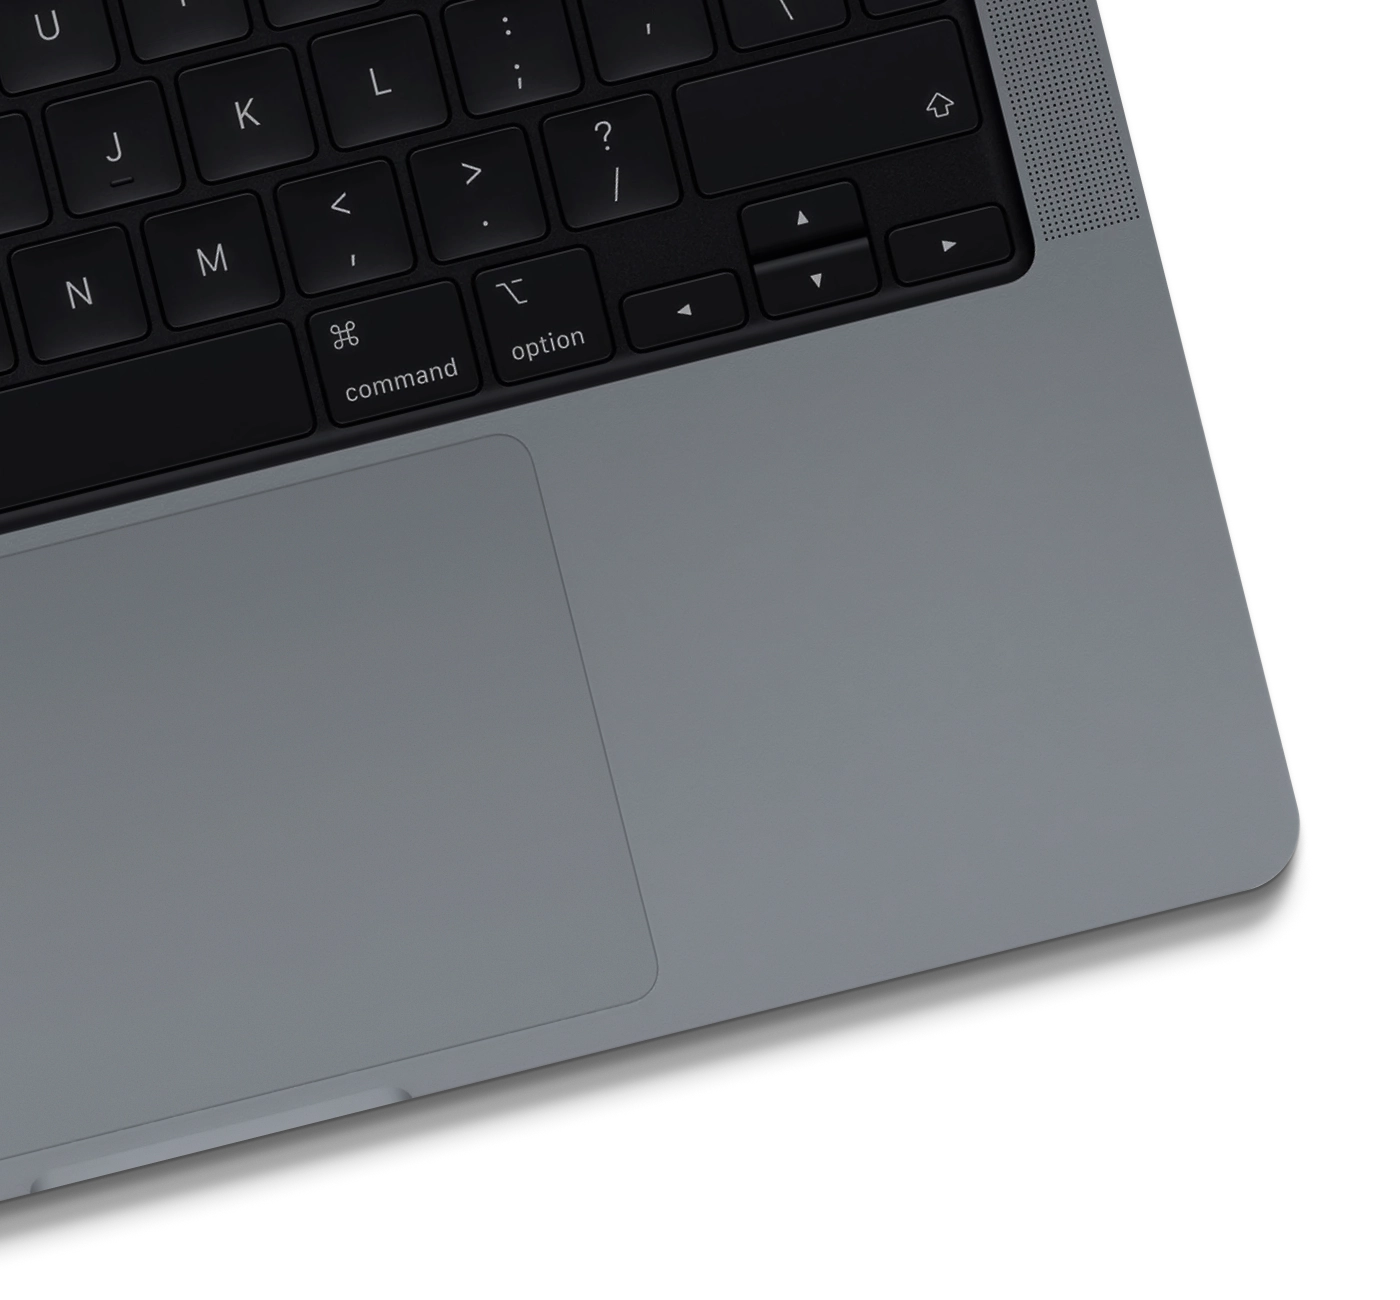
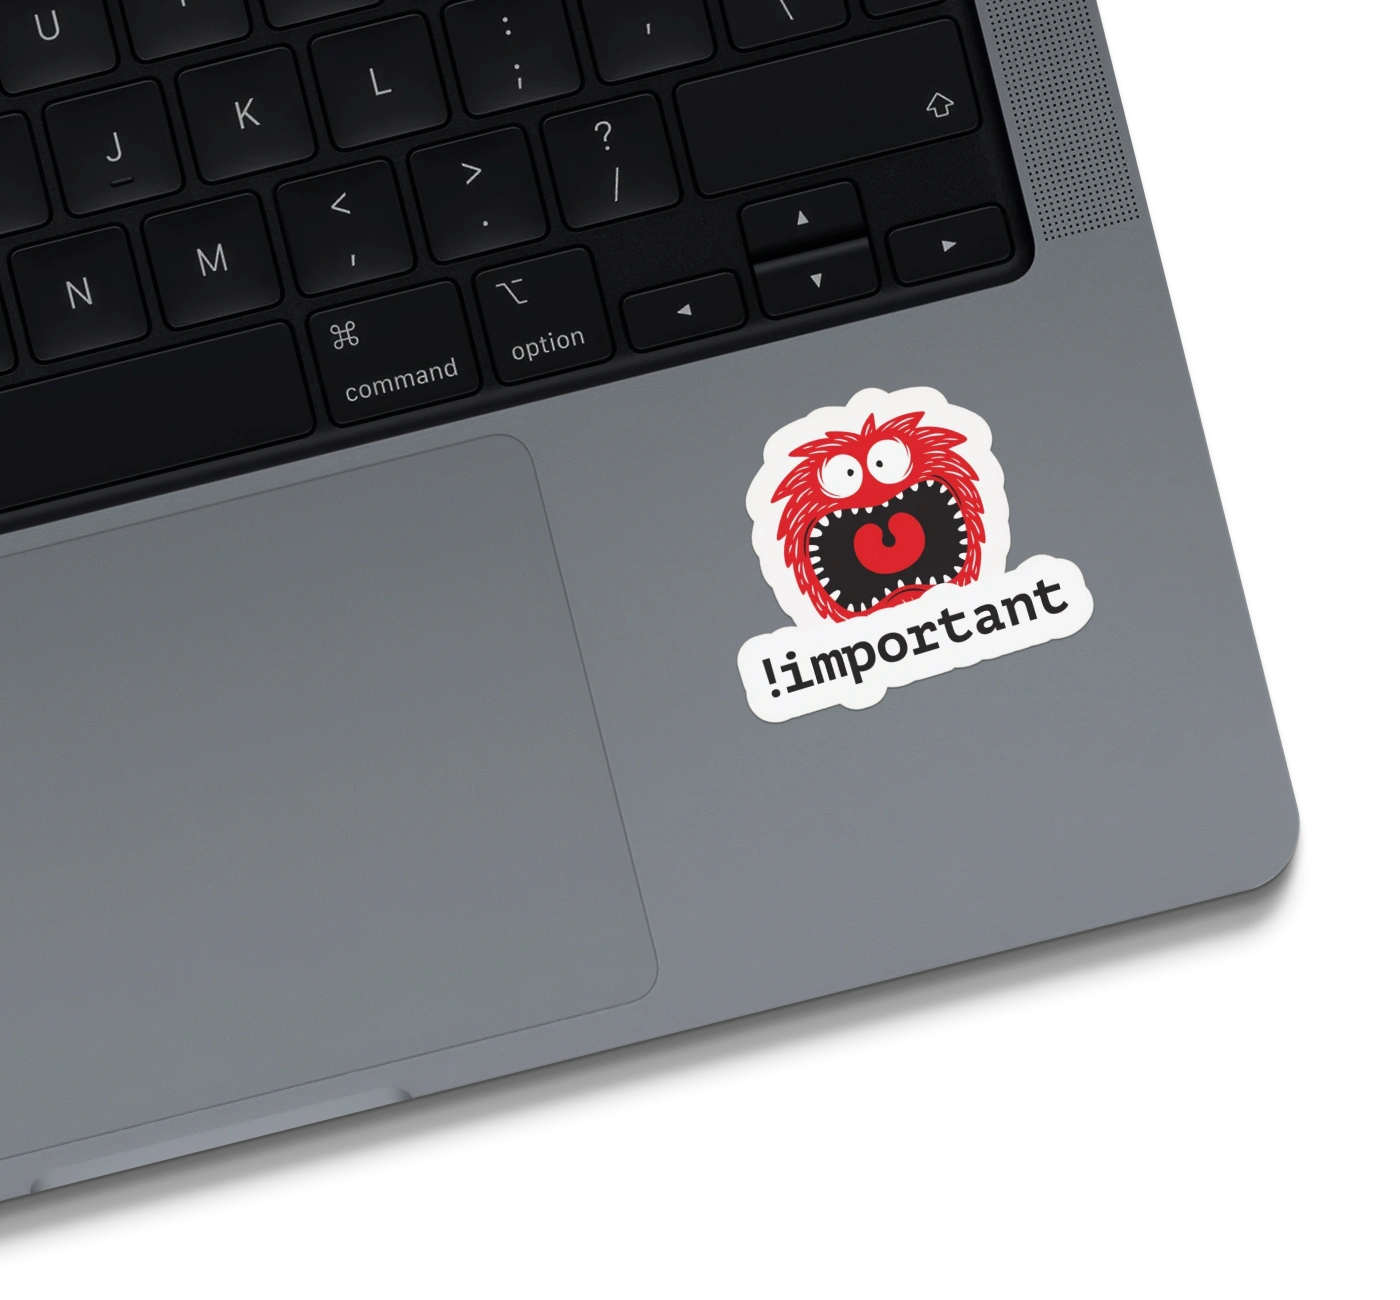
add sticker to laptop, change wip-tape color

Changed region(s): [[0.5221, 0.2769, 0.7986, 0.5538]]

diff --git a/styles/wip.css b/styles/wip.css
@@ -15,7 +15,7 @@
         linear-gradient(125deg, 
         transparent 15%, var(--c-action) 15%, var(--c-action) 45%, transparent 45%, transparent 74%, var(--c-action) 74%
         ), */
-        var(--c-action);
+        #E4F400;
     background-size: auto min(40px, 5vw);
     box-shadow: 
         inset 0px 1px 0 0px color-mix(in srgb, var(--c-light) 20%, transparent),
